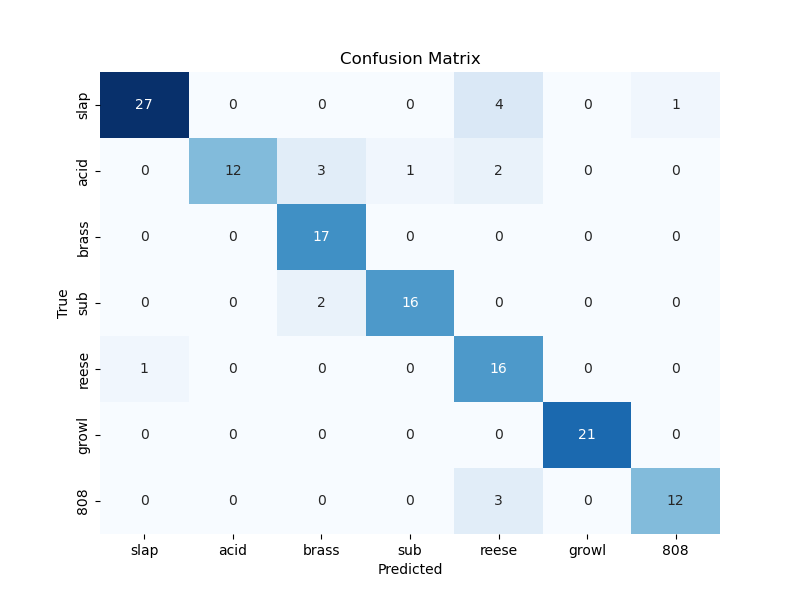
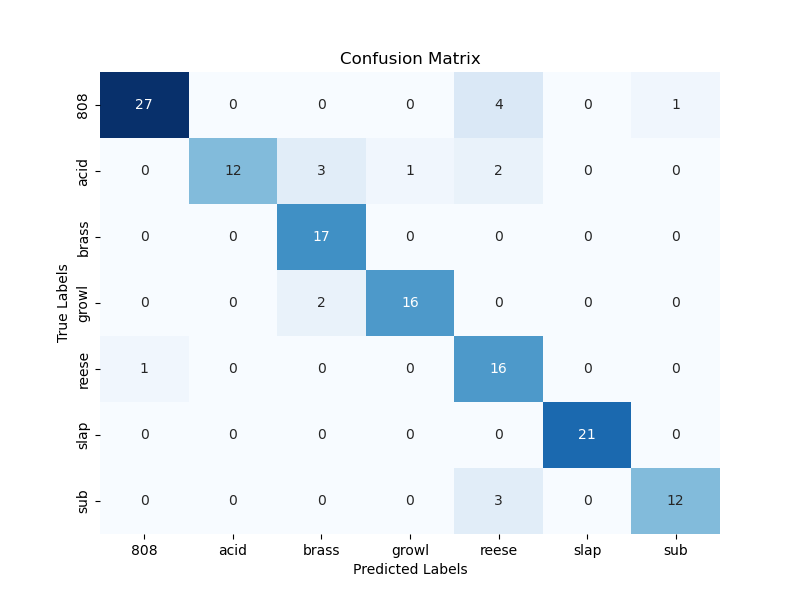
Fixed the output of the cm

diff --git a/main/evaluate/functions/service.py b/main/evaluate/functions/service.py
@@ -51,9 +51,16 @@ def create_confusion_matrix(true_labels, predicted_labels):
     cm = confusion_matrix(true_labels, predicted_labels)
     
     plt.figure(figsize=(8, 6))
-    sns.heatmap(cm, cmap='Blues', cbar=False, annot=True, fmt='d', xticklabels=labels, yticklabels=labels)
-    plt.xlabel('Predicted')
-    plt.ylabel('True')
+    sns.heatmap(cm, 
+                cmap='Blues', 
+                cbar=False, 
+                annot=True, fmt='d', 
+                xticklabels=np.unique(true_labels), 
+                yticklabels=np.unique(true_labels)
+                )
+    
+    plt.xlabel('Predicted Labels')
+    plt.ylabel('True Labels')
     plt.title('Confusion Matrix')
     plt.savefig('./confusion_matrix.png')
     plt.show()
